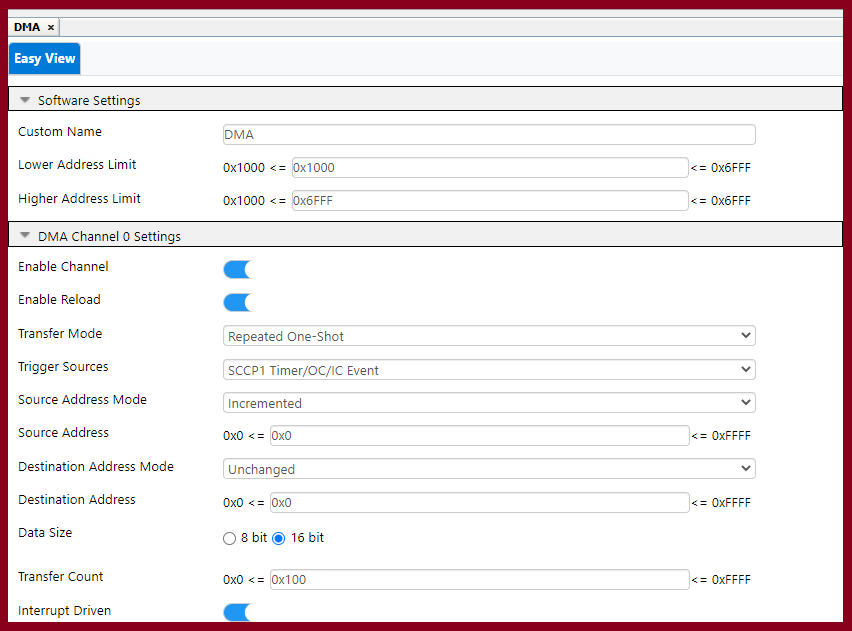
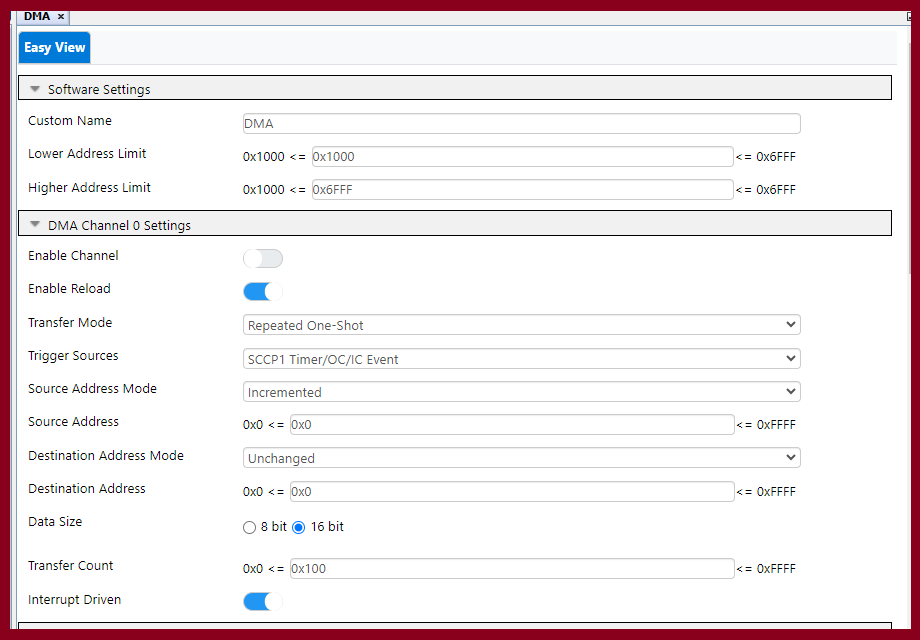
made updates to the image and table description, also updated the project names in the readme.

Changed region(s): [[0.0, 0.0, 1.0, 0.9937], [0.7934, 0.8732, 0.885, 0.9334]]

diff --git a/README.md b/README.md
@@ -4,13 +4,13 @@
     <img alt="Microchip Logo." src="images/microchip_logo_black_red.png">
 </picture>
 
-## Sine Wave Demo using the DMA and DAC drivers
+## Sine Wave Demo
 
 ![Overall Project](images/Explorer16_32_connection.png)
 
 # Summary
 
-This code example demonstrates how to generate a 100 Hz sine wave without CPU intervention using the DMA and DAC peripherals of the dsPIC33CK device. This demo is interchangable between the Explorer Board 16/32 with dsPIC33CK256MP508 PIM and the dsPIC33CK Curiosity development boards (with varying output pins). 
+This demo demonstrates how to generate a 100 Hz sine wave without CPU intervention using the DMA and DAC peripherals of the dsPIC33CK device. This demo is interchangable between the Explorer Board 16/32 with dsPIC33CK256MP508 PIM and the dsPIC33CK Curiosity development boards (with varying output pins). 
 
 The DMA peripheral will utilize the Capture/Compare event generated by the SCCP module to iterate and place values from a 256 point sine lookup table to a DAC peripheral for output.
 
@@ -48,7 +48,7 @@ The DMA peripheral will utilize the Capture/Compare event generated by the SCCP 
 
 # Setup
 
-The dspic33ck sine wave demo uses the Explorer 16/32 Development board or the dsPIC33CK Curiosity Development board.  The boards are plugged in for programming through PKOB(PICkit On-Board) or the PicKit 4. 
+The sine wave demo uses the Explorer 16/32 Development board or the dsPIC33CK Curiosity Development board.  The boards are plugged in for programming through PKOB(PICkit On-Board) or the PicKit 4. 
 
 The setup for each board is slightly different:
 - Explorer 16/32 Development Board
@@ -60,10 +60,10 @@ The setup for each board is slightly different:
 ## Software Setup
 
 ### Programming the Device
-1. Open the dspic33ck_dac_dma_pwm_sinewave.X project in MPLAB® X IDE.
+1. Open the dspic33ck_dac_dma_sinewave.X project in MPLAB® X IDE.
 2. Right click the project in "Projects" tab of MPLAB® X IDE and select "Set as Main Project".
 3. Plug in the PKOB (PICkit On-Board) or the PICKit 4 from the board to the PC.
-4. Program the device by selecting the "Make and Program Device (Project dspic33ck_dac_dma_pwm_sinewave)" button on the menu bar.
+4. Program the device by selecting the "Make and Program Device (Project dspic33ck_dac_dma_sinewave)" button on the menu bar.
 5. The project should build and program successfully.
 
 ### Peripheral Configurations
@@ -73,9 +73,9 @@ Omitted configurations are default values set by MCC Melody.
 
 |Setting|Value|Explaination|
 |---|----|---|
-|Enable Channel|True| Enables the Channel.|
+|Enable Channel|False| Starts with channel disabled since it needs to be enabled after SCCP1 in PWM mode is initailized in the main.c.|
 |Enable Reload|True|The registers are reloaded to previous values at the next start.|
-|Transfer Mode|Repeated One-Shot|This allows the DMA to iterate to the Transfer Count value then start over repeatedly.|
+|Transfer Mode|Repeated One-Shot|This allows the DMA to iterate and transfer data one value per event until it reaches the transfer count.|
 |Trigger Sources|SCCP1 Timer/OC/IC Event|This checks for an of the SCCP1 capture/compare event. (Triggered by running SCCP1 in PWM mode) |
 |Source Address Mode|Incremented|Increments the Source Address value by the Data Size|
 |Source Address|0|This is set within the applicaiton code to use the address of the first sine wave point.|
